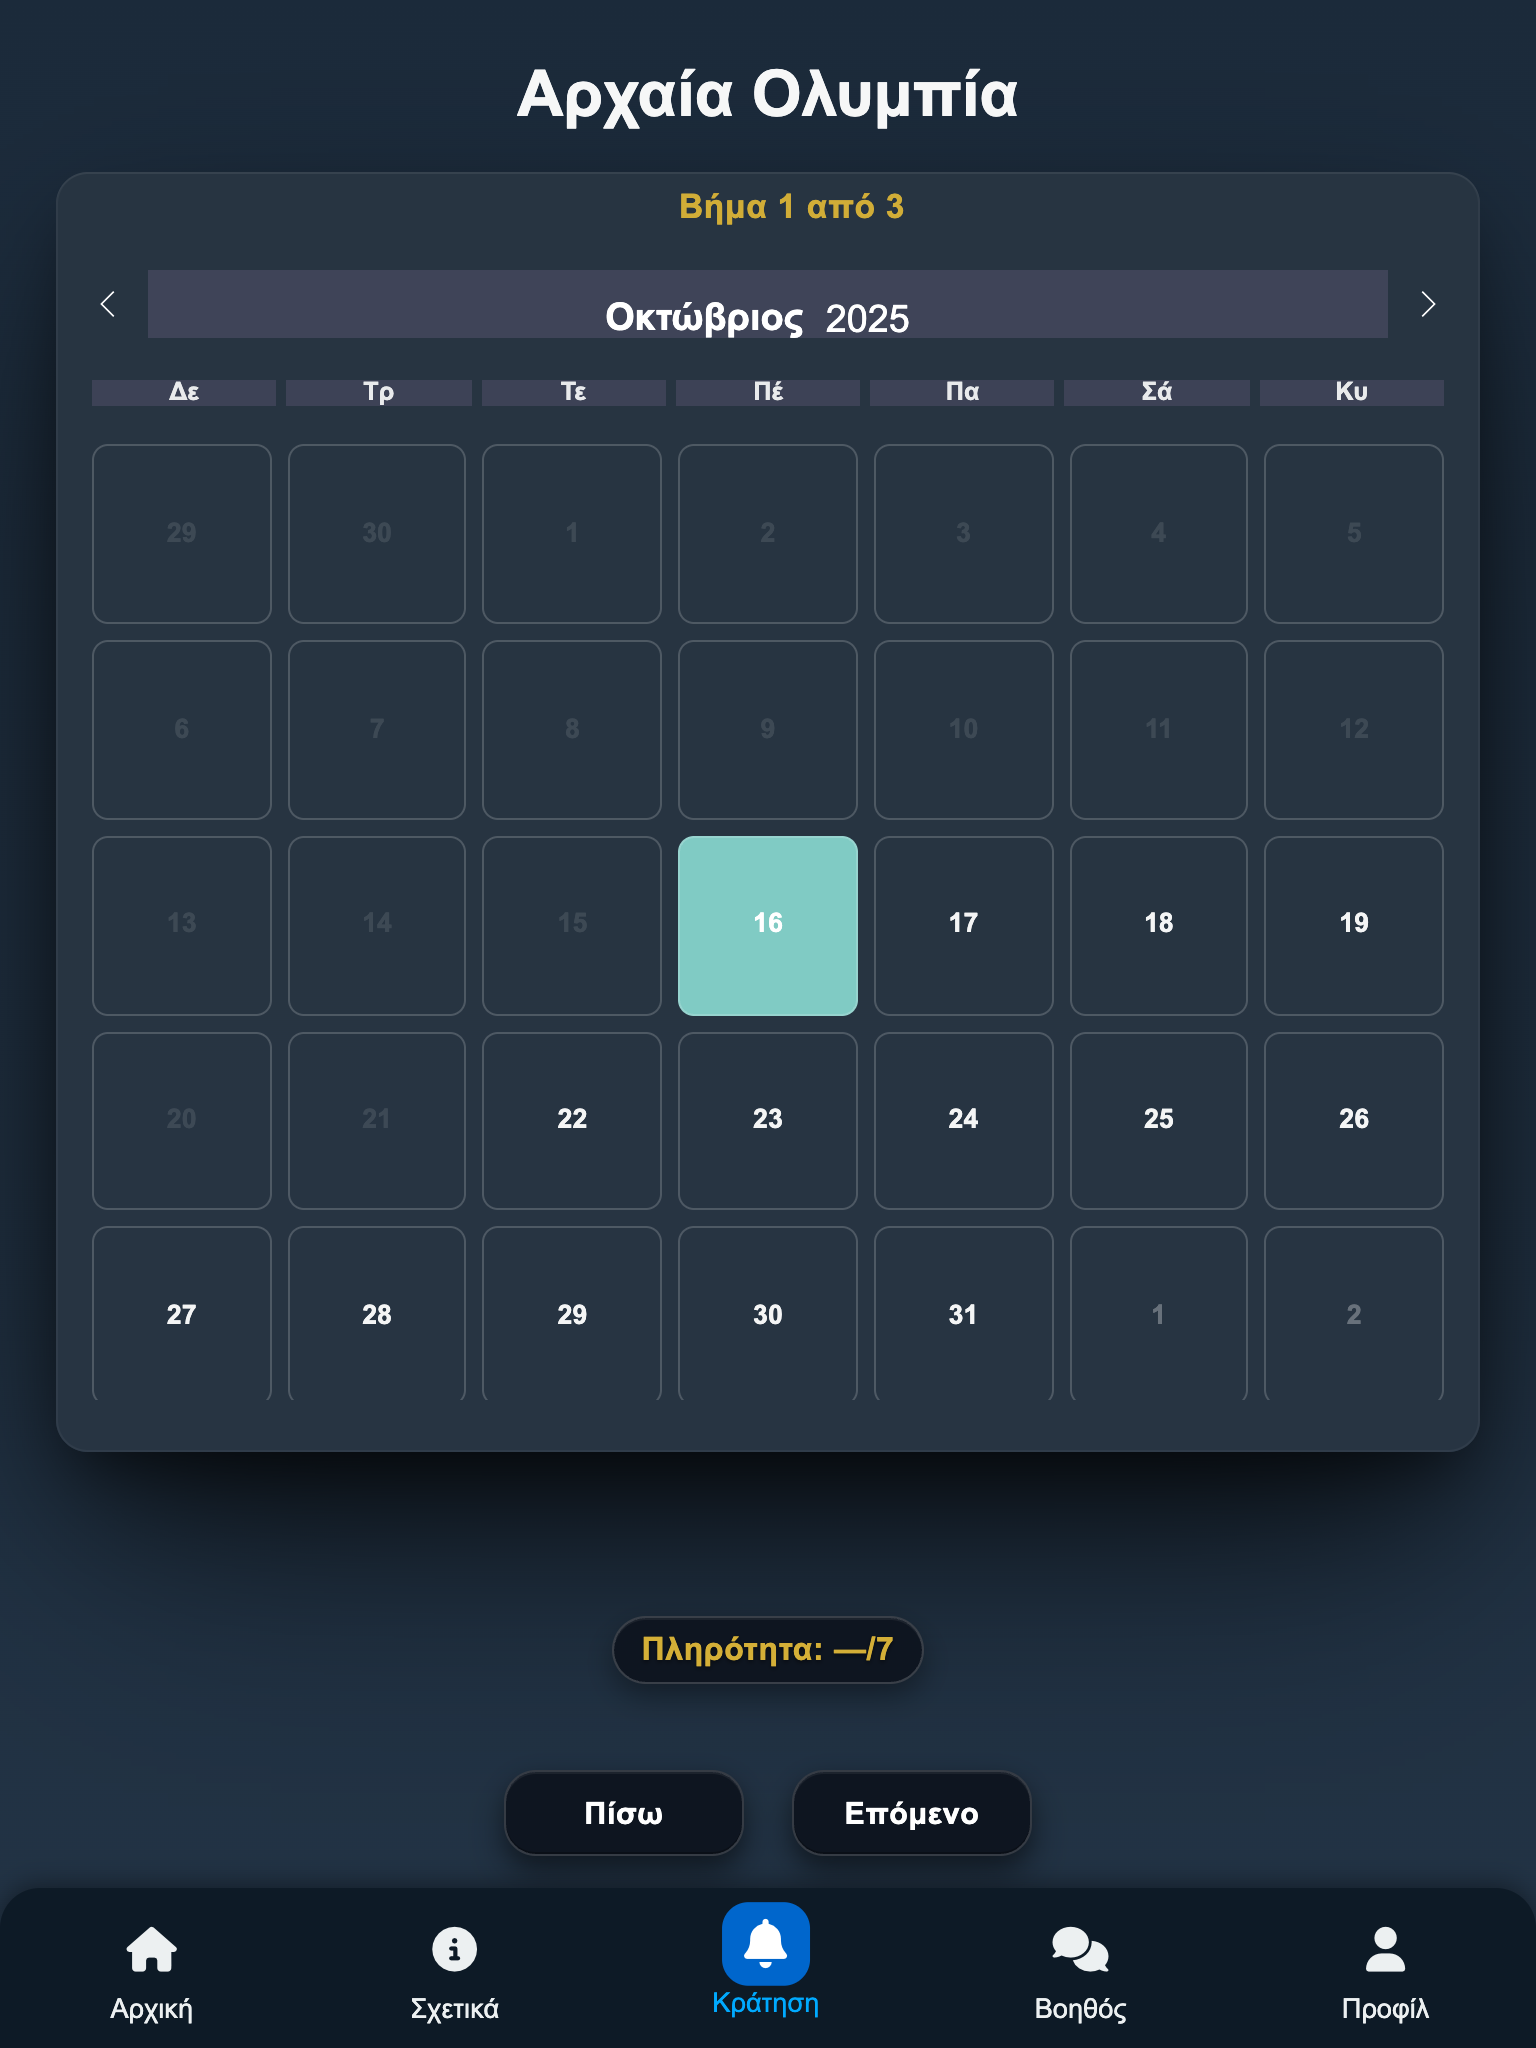
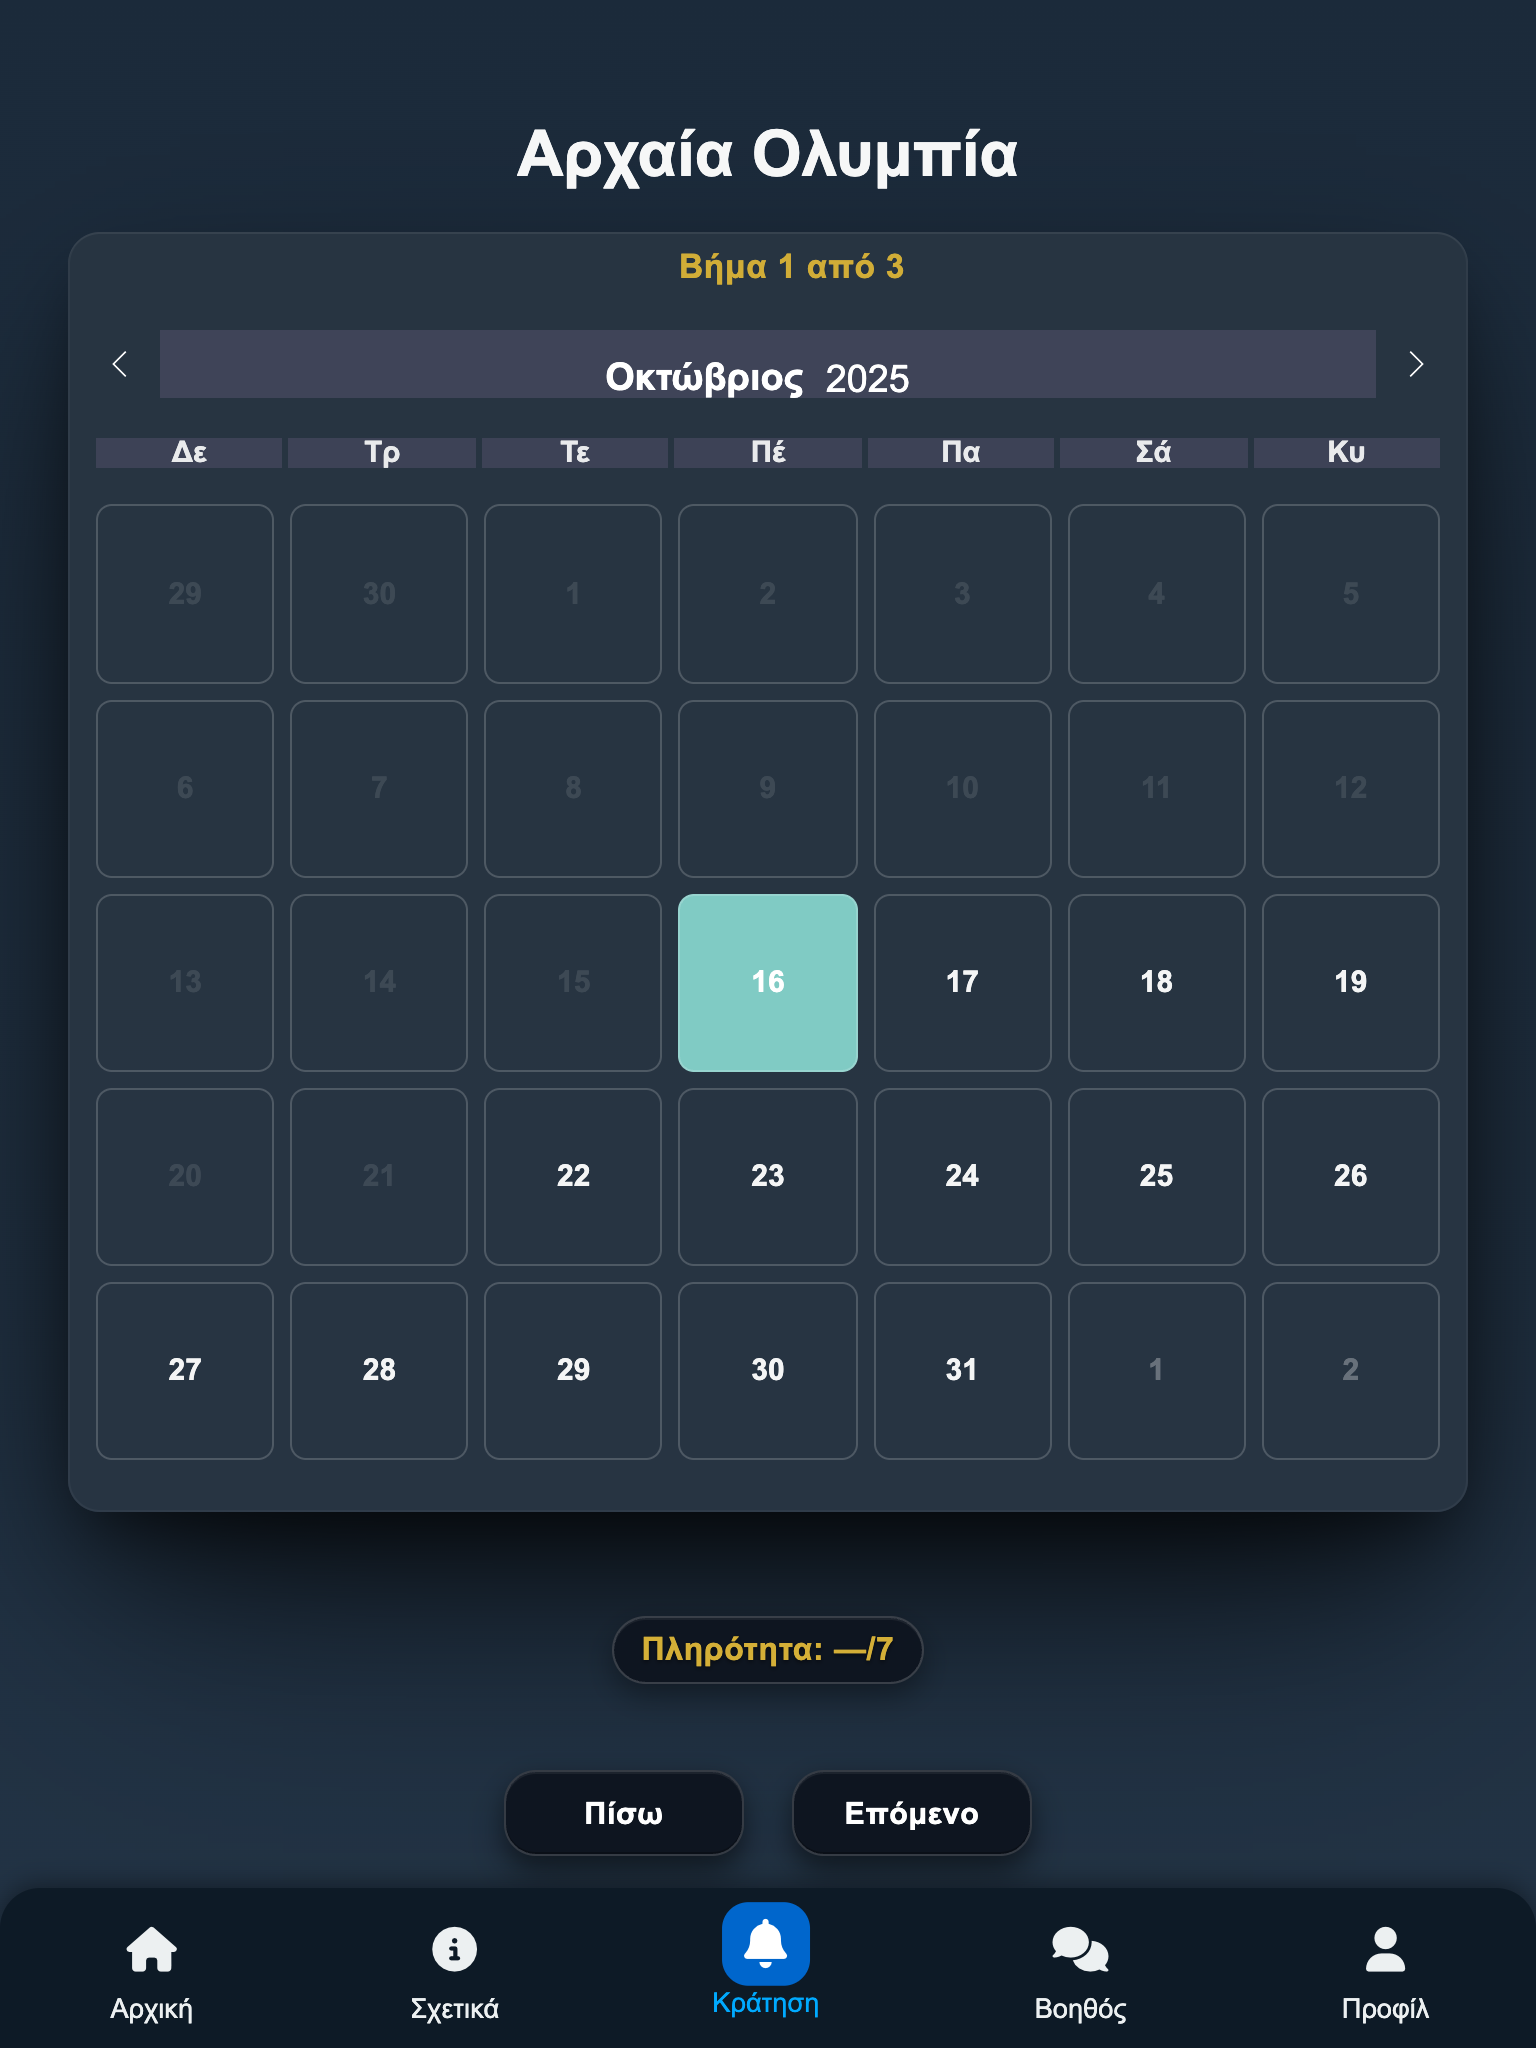
245

diff --git a/public/css/booking.css b/public/css/booking.css
@@ -627,27 +627,30 @@ body.booking-testing #bookingOverlay #step1 .booking-actions { opacity: 1 !impor
 /* Tablet/iPad fixes: prevent calendar clipping on Step 1 (iPad & iPad mini) */
 @media (min-width: 600px) and (max-width: 1023px) {
   /* Make step1 a flex column so we can order blocks without touching DOM */
-  #bookingOverlay #step1 { display: flex !important; flex-direction: column !important; align-items: center !important; gap: 6px !important; padding-top: 16px !important; padding-bottom: calc(140px + env(safe-area-inset-bottom)) !important; }
+  #bookingOverlay #step1 { display: flex !important; flex-direction: column !important; align-items: center !important; gap: 6px !important; padding-top: 16px !important; padding-bottom: calc(140px + env(safe-area-inset-bottom)) !important; position: relative !important; }
   /* Reorder: availability (1), title (2), calendar (3) */
   #bookingOverlay #availabilityBlock { order: 1 !important; }
   #bookingOverlay #step1 .trip-hero-title { order: 2 !important; }
   #bookingOverlay #step1 .calendar-card { order: 3; }
 
   /* Slightly adjust occupancy pill so it sits comfortably above the buttons */
-  #bookingOverlay #step1 .occupancy-indicator { bottom: calc(64px + env(safe-area-inset-bottom) + 118px) !important; }
+  #bookingOverlay #step1 .occupancy-indicator { bottom: calc(64px + env(safe-area-inset-bottom) + 102px) !important; }
   /* Title should sit above the calendar in normal flow (no overlap) */
   #bookingOverlay #step1 .trip-hero-title {
     position: static !important;
-    margin: 24px auto 14px !important; /* +2 clicks lower */
+    margin: 42px auto 14px !important; /* +2 clicks +3 more clicks lower */
     text-align: center !important;
     z-index: 6 !important; /* above card shadow if needed */
   }
   /* Availability presentation: keep it compact and visible above title */
   #bookingOverlay #availabilityBlock {
     width: min(760px, calc(100vw - 56px));
-    margin: 24px auto 6px !important; /* sit closer to top, before title */
-    position: relative !important;
+    position: absolute !important; /* remove from flow so calendar doesn't shift */
+    top: -6px !important; /* raise ~2 clicks above the title */
+    left: 50% !important; transform: translateX(-50%) !important;
+    margin: 0 !important;
     z-index: 7001 !important; /* above footer and shadows */
+    pointer-events: none !important; /* avoid blocking taps */
   }
   /* Let the calendar sit in normal flow so it can't be clipped by viewport */
   #bookingOverlay .calendar-full {
@@ -656,14 +659,17 @@ body.booking-testing #bookingOverlay #step1 .booking-actions { opacity: 1 !impor
     left: auto !important;
     right: auto !important;
     transform: none !important;
-    width: min(740px, calc(100vw - 56px)) !important; /* slim a bit on tablets */
+    width: min(700px, calc(100vw - 56px)) !important; /* slimmer on tablets */
     height: auto !important;
     margin: 0 auto 32vh !important; /* extra bottom breathing room so it never rides over buttons */
     overflow: visible !important;
   }
   /* Slim down gaps/padding inside the calendar for tablets */
-  #bookingOverlay .flatpickr-calendar { --cal-gap: 4px !important; --cal-pad-x: 16px !important; }
+  #bookingOverlay .flatpickr-calendar { --cal-gap: 3px !important; --cal-pad-x: 14px !important; }
   #bookingOverlay .flatpickr-weekdays { padding: 8px var(--cal-pad-x) !important; }
+  /* Slightly smaller typography to reinforce the smaller calendar */
+  #bookingOverlay #step1 .flatpickr-day { font-size: 0.94rem !important; }
+  #bookingOverlay #step1 .flatpickr-weekday { font-size: 0.92rem !important; }
   /* Keep the action buttons above any content */
   #bookingOverlay #step1 .booking-actions { z-index: 9001 !important; }
   /* Mirror desktop behavior so absolute fill doesn’t require fixed height */
@@ -674,35 +680,40 @@ body.booking-testing #bookingOverlay #step1 .booking-actions { opacity: 1 !impor
 
 /* iPad landscape (touch devices around 1024px): apply same tablet-safe layout without touching desktops */
 @media (min-width: 1024px) and (max-width: 1180px) and (hover: none) and (pointer: coarse) {
-  #bookingOverlay #step1 { display: flex !important; flex-direction: column !important; align-items: center !important; gap: 6px !important; padding-top: 16px !important; padding-bottom: calc(140px + env(safe-area-inset-bottom)) !important; }
+  #bookingOverlay #step1 { display: flex !important; flex-direction: column !important; align-items: center !important; gap: 6px !important; padding-top: 16px !important; padding-bottom: calc(140px + env(safe-area-inset-bottom)) !important; position: relative !important; }
   /* Reorder: availability (1), title (2), calendar (3) */
   #bookingOverlay #availabilityBlock { order: 1 !important; }
   #bookingOverlay #step1 .trip-hero-title { order: 2 !important; }
   #bookingOverlay #step1 .calendar-card { order: 3; }
-  #bookingOverlay #step1 .occupancy-indicator { bottom: calc(64px + env(safe-area-inset-bottom) + 118px) !important; }
+  #bookingOverlay #step1 .occupancy-indicator { bottom: calc(64px + env(safe-area-inset-bottom) + 102px) !important; }
   #bookingOverlay #step1 .trip-hero-title {
     position: static !important;
-    margin: 24px auto 14px !important; /* +2 clicks lower */
+    margin: 42px auto 14px !important; /* +2 clicks +3 more clicks lower */
     text-align: center !important;
     z-index: 6 !important;
   }
   #bookingOverlay #availabilityBlock {
     width: min(780px, calc(100vw - 64px));
-    margin: 24px auto 6px !important; /* sit closer to top, before title */
-    position: relative !important;
+    position: absolute !important; /* remove from flow so calendar doesn't shift */
+    top: -4px !important; /* raise ~2 clicks above the title */
+    left: 50% !important; transform: translateX(-50%) !important;
+    margin: 0 !important;
     z-index: 7001 !important;
+    pointer-events: none !important; /* avoid blocking taps */
   }
   #bookingOverlay .calendar-full {
     position: static !important;
     top: auto !important; left: auto !important; right: auto !important;
     transform: none !important;
-    width: min(760px, calc(100vw - 64px)) !important; /* slim a bit on iPad landscape */
+    width: min(720px, calc(100vw - 64px)) !important; /* slimmer on iPad landscape */
     height: auto !important;
     margin: 0 auto 32vh !important; /* extra bottom breathing room */
     overflow: visible !important;
   }
-  #bookingOverlay .flatpickr-calendar { --cal-gap: 4px !important; --cal-pad-x: 16px !important; }
+  #bookingOverlay .flatpickr-calendar { --cal-gap: 3px !important; --cal-pad-x: 14px !important; }
   #bookingOverlay .flatpickr-weekdays { padding: 8px var(--cal-pad-x) !important; }
+  #bookingOverlay #step1 .flatpickr-day { font-size: 0.94rem !important; }
+  #bookingOverlay #step1 .flatpickr-weekday { font-size: 0.92rem !important; }
   #bookingOverlay #step1 .booking-actions { z-index: 9001 !important; }
   #bookingOverlay .flatpickr-calendar { position: static !important; inset: auto !important; padding-bottom: 26px !important; overflow: visible !important; }
   #bookingOverlay .flatpickr-days { overflow: visible !important; padding-bottom: 38px !important; }
